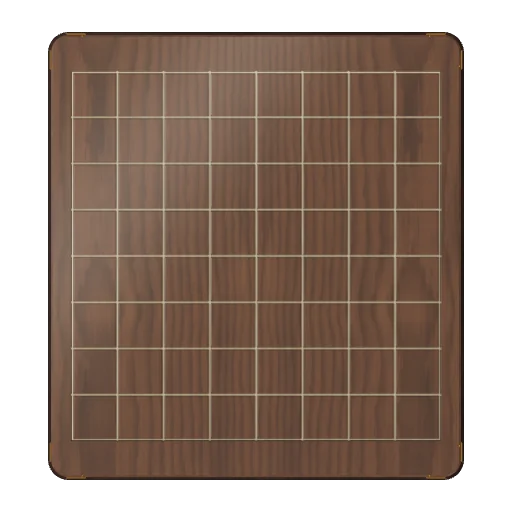
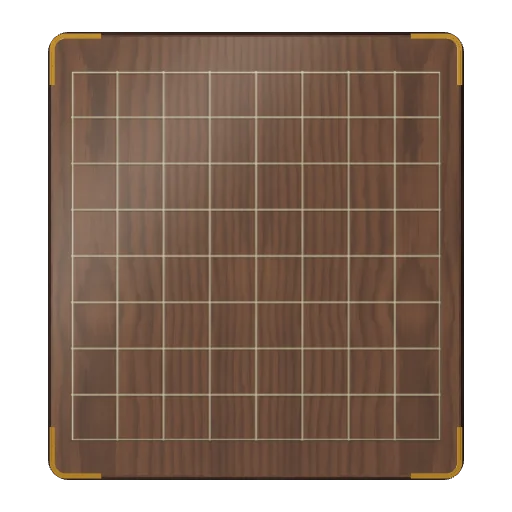
ラトルンクロルム3D：木工の盤のちらつきを修正（上面の金具が消えていたのも直す、金具は影なし、象嵌線の凹みを浅く）、木の駒の墨入れを外す
Claude-Session: https://claude.ai/code/session_01EiWRAVpHBixHi279KdKnET

diff --git a/atlas/lazy.js b/atlas/lazy.js
@@ -5,7 +5,7 @@
      AtlasLazy.has3D(id) / hasPlay(id) / hasRules(id) — known before loading; AtlasLazy.loaded(id) */
 (function () {
 'use strict';
-const G = {"reversi": ["models/reversi.js?v=1", "games/reversi.js?v=57", "rules/reversi.js?v=14"], "shogi": ["models/shogi.js?v=102", "games/shogi-play.js?v=51", "games/shogi.js?v=18", "rules/shogi.js?v=21"], "chess": ["models/chess.js?v=23", "games/chess.js?v=23", "rules/chess.js?v=8"], "backgammon": ["models/backgammon.js?v=123", "games/backgammon.js?v=29", "rules/backgammon.js?v=11"], "gomoku": ["models/goban.js?v=17", "games/gomoku.js?v=19", "rules/gomoku.js?v=10"], "go": ["models/goban.js?v=17", "games/go.js?v=18", "rules/go.js?v=7"], "hex": ["models/goban.js?v=17", "models/hex.js?v=3", "games/hex.js?v=9", "rules/hex.js?v=7"], "tafl": ["games/tafl.js?v=20", "rules/tafl.js?v=8"], "xiangqi": ["models/xiangqi.js?v=8", "games/xiangqi.js?v=18", "rules/xiangqi.js?v=7"], "janggi": ["models/xiangqi.js?v=8", "models/janggi.js?v=3", "games/janggi.js?v=10", "rules/janggi.js?v=3"], "checkers": ["models/checkers.js?v=23", "games/checkers.js?v=17", "rules/checkers.js?v=11"], "ugolki": ["models/checkers.js?v=23", "models/ugolki.js?v=4", "games/ugolki.js?v=17", "rules/ugolki.js?v=11"], "morris": ["models/morris.js?v=9", "games/morris-pieces.js?v=5", "games/morris.js?v=16", "rules/morris.js?v=8"], "connect4": ["models/connect4.js?v=6", "games/connect4-tiles.js?v=3", "games/connect4.js?v=10", "rules/connect4.js?v=3"], "mancala": ["models/mancala.js?v=6", "games/mancala.js?v=16", "rules/mancala.js?v=5"], "dots": ["models/dots.js?v=5", "games/dots.js?v=15", "rules/dots.js?v=3"], "ur": ["models/ur-dice.js?v=2", "models/ur.js?v=5", "games/ur-kit.js?v=15", "games/ur.js?v=15", "rules/ur.js?v=18"], "fanorona": ["models/fanorona.js?v=4", "games/fanorona.js?v=9", "rules/fanorona.js?v=8"], "konane": ["models/konane.js?v=7", "games/konane.js?v=18", "rules/konane.js?v=7"], "latrunculi": ["models/latrunculi.js?v=5", "games/latrunculi.js?v=9", "rules/latrunculi.js?v=3"], "foxgeese": ["models/foxgeese.js?v=7", "games/foxgeese.js?v=17", "rules/foxgeese.js?v=13"], "amazons": ["models/amazons.js?v=7", "games/amazons.js?v=17", "rules/amazons.js?v=9"], "senet": ["models/ur-dice.js?v=2", "models/senet.js?v=10", "games/senet-kit.js?v=5", "games/senet.js?v=20", "rules/senet.js?v=10"], "agon": ["models/agon.js?v=4", "games/agon.js?v=16", "rules/agon.js?v=6"], "alquerque": ["models/alquerque.js?v=3", "games/fanorona.js?v=9", "rules/alquerque.js?v=6"], "ludo": ["../ludo/engine.js?v=4", "../ludo/house.js?v=7", "../ludo/board2d.js?v=7", "../ludo/board-art.js?v=3", "models/ludo.js?v=10", "games/ludo.js?v=30", "rules/ludo.js?v=4"], "carrom": ["../carrom/engine.js?v=8", "models/carrom.js?v=18", "games/carrom.js?v=46", "rules/carrom.js?v=9", "../shared/onlinesec.js?v=2l14as1sh1", "online3d.js?v=2"], "crokinole": ["../carrom/engine.js?v=8", "games/carrom.js?v=46", "../crokinole/engine.js?v=7", "models/crokinole.js?v=13", "games/crokinole.js?v=24", "rules/crokinole.js?v=5", "../shared/onlinesec.js?v=2l14as1sh1", "online3d.js?v=2"], "hockey": ["../hockey/engine.js?v=19", "models/hockey.js?v=8", "games/hockey.js?v=41", "rules/hockey.js?v=8"], "botao": ["../carrom/engine.js?v=8", "games/carrom.js?v=46", "../botao/engine.js?v=16", "models/botao.js?v=11", "games/botao-i18n.js?v=16", "games/botao.js?v=36", "rules/botao.js?v=10", "../shared/onlinesec.js?v=2l14as1sh1", "online3d.js?v=2"], "shanghai": ["games/shanghai-core.js?v=2", "games/shanghai-scenes.js?v=2", "games/shanghai-zodiac.js?v=6", "games/shanghai-i18n.js?v=17", "models/shanghai.js?v=19", "games/shanghai.js?v=44", "rules/shanghai-i18n.js?v=1", "rules/shanghai.js?v=1"], "patolli": ["models/patolli.js?v=1", "games/patolli-kit.js?v=2", "games/patolli.js?v=4", "rules/patolli.js?v=3"], "peg": ["../peg/engine.js?v=2", "../peg/i18n.js?v=11", "models/peg.js?v=23", "games/peg.js?v=16", "rules/peg.js?v=4"], "hitblow": ["../hitblow/engine.js?v=6", "models/hitblow.js?v=27", "games/hitblow.js?v=19", "rules/hitblow.js?v=4"]};
+const G = {"reversi": ["models/reversi.js?v=1", "games/reversi.js?v=57", "rules/reversi.js?v=14"], "shogi": ["models/shogi.js?v=102", "games/shogi-play.js?v=51", "games/shogi.js?v=18", "rules/shogi.js?v=21"], "chess": ["models/chess.js?v=23", "games/chess.js?v=23", "rules/chess.js?v=8"], "backgammon": ["models/backgammon.js?v=123", "games/backgammon.js?v=29", "rules/backgammon.js?v=11"], "gomoku": ["models/goban.js?v=17", "games/gomoku.js?v=19", "rules/gomoku.js?v=10"], "go": ["models/goban.js?v=17", "games/go.js?v=18", "rules/go.js?v=7"], "hex": ["models/goban.js?v=17", "models/hex.js?v=3", "games/hex.js?v=9", "rules/hex.js?v=7"], "tafl": ["games/tafl.js?v=20", "rules/tafl.js?v=8"], "xiangqi": ["models/xiangqi.js?v=8", "games/xiangqi.js?v=18", "rules/xiangqi.js?v=7"], "janggi": ["models/xiangqi.js?v=8", "models/janggi.js?v=3", "games/janggi.js?v=10", "rules/janggi.js?v=3"], "checkers": ["models/checkers.js?v=23", "games/checkers.js?v=17", "rules/checkers.js?v=11"], "ugolki": ["models/checkers.js?v=23", "models/ugolki.js?v=4", "games/ugolki.js?v=17", "rules/ugolki.js?v=11"], "morris": ["models/morris.js?v=9", "games/morris-pieces.js?v=5", "games/morris.js?v=16", "rules/morris.js?v=8"], "connect4": ["models/connect4.js?v=6", "games/connect4-tiles.js?v=3", "games/connect4.js?v=10", "rules/connect4.js?v=3"], "mancala": ["models/mancala.js?v=6", "games/mancala.js?v=16", "rules/mancala.js?v=5"], "dots": ["models/dots.js?v=5", "games/dots.js?v=15", "rules/dots.js?v=3"], "ur": ["models/ur-dice.js?v=2", "models/ur.js?v=5", "games/ur-kit.js?v=15", "games/ur.js?v=15", "rules/ur.js?v=18"], "fanorona": ["models/fanorona.js?v=4", "games/fanorona.js?v=9", "rules/fanorona.js?v=8"], "konane": ["models/konane.js?v=7", "games/konane.js?v=18", "rules/konane.js?v=7"], "latrunculi": ["models/latrunculi.js?v=6", "games/latrunculi.js?v=9", "rules/latrunculi.js?v=3"], "foxgeese": ["models/foxgeese.js?v=7", "games/foxgeese.js?v=17", "rules/foxgeese.js?v=13"], "amazons": ["models/amazons.js?v=7", "games/amazons.js?v=17", "rules/amazons.js?v=9"], "senet": ["models/ur-dice.js?v=2", "models/senet.js?v=10", "games/senet-kit.js?v=5", "games/senet.js?v=20", "rules/senet.js?v=10"], "agon": ["models/agon.js?v=4", "games/agon.js?v=16", "rules/agon.js?v=6"], "alquerque": ["models/alquerque.js?v=3", "games/fanorona.js?v=9", "rules/alquerque.js?v=6"], "ludo": ["../ludo/engine.js?v=4", "../ludo/house.js?v=7", "../ludo/board2d.js?v=7", "../ludo/board-art.js?v=3", "models/ludo.js?v=10", "games/ludo.js?v=30", "rules/ludo.js?v=4"], "carrom": ["../carrom/engine.js?v=8", "models/carrom.js?v=18", "games/carrom.js?v=46", "rules/carrom.js?v=9", "../shared/onlinesec.js?v=2l14as1sh1", "online3d.js?v=2"], "crokinole": ["../carrom/engine.js?v=8", "games/carrom.js?v=46", "../crokinole/engine.js?v=7", "models/crokinole.js?v=13", "games/crokinole.js?v=24", "rules/crokinole.js?v=5", "../shared/onlinesec.js?v=2l14as1sh1", "online3d.js?v=2"], "hockey": ["../hockey/engine.js?v=19", "models/hockey.js?v=8", "games/hockey.js?v=41", "rules/hockey.js?v=8"], "botao": ["../carrom/engine.js?v=8", "games/carrom.js?v=46", "../botao/engine.js?v=16", "models/botao.js?v=11", "games/botao-i18n.js?v=16", "games/botao.js?v=36", "rules/botao.js?v=10", "../shared/onlinesec.js?v=2l14as1sh1", "online3d.js?v=2"], "shanghai": ["games/shanghai-core.js?v=2", "games/shanghai-scenes.js?v=2", "games/shanghai-zodiac.js?v=6", "games/shanghai-i18n.js?v=17", "models/shanghai.js?v=19", "games/shanghai.js?v=44", "rules/shanghai-i18n.js?v=1", "rules/shanghai.js?v=1"], "patolli": ["models/patolli.js?v=1", "games/patolli-kit.js?v=2", "games/patolli.js?v=4", "rules/patolli.js?v=3"], "peg": ["../peg/engine.js?v=2", "../peg/i18n.js?v=11", "models/peg.js?v=23", "games/peg.js?v=16", "rules/peg.js?v=4"], "hitblow": ["../hitblow/engine.js?v=6", "models/hitblow.js?v=27", "games/hitblow.js?v=19", "rules/hitblow.js?v=4"]};
 const F = {"patolli": {"t3": true, "play": true, "rules": true}, "reversi": {"t3": true, "play": true, "rules": true}, "shogi": {"t3": true, "play": true, "rules": true}, "chess": {"t3": true, "play": true, "rules": true}, "backgammon": {"t3": true, "play": true, "rules": true}, "gomoku": {"t3": true, "play": true, "rules": true}, "go": {"t3": true, "play": true, "rules": true}, "hex": {"t3": true, "play": true, "rules": true}, "tafl": {"t3": true, "play": true, "rules": true}, "xiangqi": {"t3": true, "play": true, "rules": true}, "janggi": {"t3": true, "play": true, "rules": true}, "checkers": {"t3": true, "play": true, "rules": true}, "ugolki": {"t3": true, "play": true, "rules": true}, "morris": {"t3": true, "play": true, "rules": true}, "connect4": {"t3": true, "play": true, "rules": true}, "mancala": {"t3": true, "play": true, "rules": true}, "dots": {"t3": true, "play": true, "rules": true}, "ur": {"t3": true, "play": true, "rules": true}, "fanorona": {"t3": true, "play": true, "rules": true}, "konane": {"t3": true, "play": true, "rules": true}, "latrunculi": {"t3": true, "play": true, "rules": true}, "foxgeese": {"t3": true, "play": true, "rules": true}, "amazons": {"t3": true, "play": true, "rules": true}, "senet": {"t3": true, "play": true, "rules": true}, "agon": {"t3": true, "play": true, "rules": true}, "alquerque": {"t3": true, "play": true, "rules": true}, "ludo": {"t3": true, "play": true, "rules": true}, "carrom": {"t3": true, "play": true, "rules": true}, "crokinole": {"t3": true, "play": true, "rules": true}, "hockey": {"t3": true, "play": true, "rules": true}, "botao": {"t3": true, "play": true, "rules": true}, "peg": {"t3": true, "play": true, "rules": true}, "shanghai": {"t3": true, "play": true, "rules": true}, "hitblow": {"t3": true, "play": true, "rules": true}};
 const done = new Set(), loading = new Map(), ok = new Set();
 function load(src) {

diff --git a/atlas/models/latrunculi.js b/atlas/models/latrunculi.js
@@ -67,7 +67,7 @@
   //             roughness, clearcoat, relief, slab corner, slab thickness, plinth height]
   const LK = {
     stone: ['#8a7a62', '#d8cdb8', 3.4, .92, 0, 1.25, .12, .5, 0],
-    wood: ['#4a2c18', '#8a5a34', 0, .48, .4, .45, .34, .38, .08],
+    wood: ['#4a2c18', '#8a5a34', 0, .5, .25, .45, .34, .38, .08],
     abstract: ['#3a3d42', '#ece4d6', 3.0, .82, 0, .2, .05, .2, .16],
     lux: ['#1c0c08', '#2a3f8f', 3.6, .24, .7, .22, .2, .36, .07],
     giallo: ['#5a1e18', '#dcae64', 3.4, .3, .55, .3, .14, .36, .11],
@@ -174,8 +174,8 @@
       const src = h2.getImageData(0, 0, nW, nH).data, hh = new Float32Array(nW * nH);
       for (let i = 0; i < nW * nH; i++) hh[i] = (src[i * 4] * .3 + src[i * 4 + 1] * .59 + src[i * 4 + 2] * .11) / 255;
       if (look === 'wood' && bd) {   // wood: the grain only faintly; the inlaid lines sit a little below the surface
-        const lc = document.createElement('canvas'); lc.width = nW; lc.height = nH; const l2 = lc.getContext('2d'); l2.drawImage(bd, BX * ns, BZ * ns, N * ns, N * ns);
-        const la = l2.getImageData(0, 0, nW, nH).data; for (let i = 0; i < nW * nH; i++) hh[i] = hh[i] * .25 - la[i * 4 + 3] / 255 * .9;
+        const lc = document.createElement('canvas'); lc.width = nW; lc.height = nH; const l2 = lc.getContext('2d'); l2.filter = 'blur(1.2px)'; l2.drawImage(bd, BX * ns, BZ * ns, N * ns, N * ns); l2.filter = 'none';
+        const la = l2.getImageData(0, 0, nW, nH).data; for (let i = 0; i < nW * nH; i++) hh[i] = hh[i] * .2 - la[i * 4 + 3] / 255 * .45;
       }
       if (look === 'stone') for (let y = 0; y < nH; y++) for (let x = 0; x < nW; x++) {   // pitting and a worn, uneven face
         const u = x / ns, v = y / ns, p = fbm(u * 14, v * 14); hh[y * nW + x] += (fbm(u * 1.6, v * 1.6) - .5) * .5 + (p < .3 ? (p - .3) * 2.2 : 0);
@@ -321,7 +321,7 @@
         const capG = G('wdCapL', () => { const sh2 = new TT.Shape(), ri = r0 - bw, A = armL + r0;
           sh2.moveTo(-A, r0); sh2.lineTo(0, r0); sh2.absarc(0, 0, r0, Math.PI / 2, 0, true); sh2.lineTo(r0, -A); sh2.lineTo(ri, -A); sh2.lineTo(ri, 0); sh2.absarc(0, 0, ri, 0, Math.PI / 2, false); sh2.lineTo(-A, ri); sh2.closePath();
           const e = new TT.ExtrudeGeometry(sh2, { depth: .006, bevelEnabled: true, bevelThickness: .006, bevelSize: .006, bevelSegments: 2, curveSegments: 8 }); e.rotateX(Math.PI / 2); e.translate(0, .012, 0); e.computeVertexNormals(); return e; });
-        const cap = mesh(capG, brass, cx, y0 + TH + .003, cz);   // (lifted off the top: its underside flickered against it) cap.scale.set(sx, 1, sz); g.add(cap);
+        const cap = mesh(capG, brass, cx, y0 + TH + .003, cz); cap.scale.set(sx, 1, sz); g.add(cap);   // (lifted off the top: its underside flickered against it)
         const thk = G('wdArmT', () => new TT.BoxGeometry(1, .012, 1));
         const thS = Math.PI / 2 + Math.atan2(-sz, sx) - Math.PI / 4;   // (the cylinder's θ for this quadrant)
         const th0 = sx > 0 ? (sz > 0 ? 0 : Math.PI / 2) : (sz < 0 ? Math.PI : Math.PI * 1.5);
@@ -329,10 +329,12 @@
         g.add(mesh(G('wdW' + th0.toFixed(2), () => new TT.CylinderGeometry(r0 + .006, r0 + .006, sh, 10, 1, true, th0, Math.PI / 2)), brass, cx, y0 + TH - sh / 2, cz));
         const s1 = mesh(thk, brass, cx - sx * armL / 2, y0 + TH - sh / 2, sz * (H / 2 + .004)); s1.scale.set(armL, sh / .012, .006); g.add(s1);
         const s2 = mesh(thk, brass, sx * (W / 2 + .004), y0 + TH - sh / 2, cz - sz * armL / 2); s2.scale.set(.006, sh / .012, armL); g.add(s2);
+        g.children.forEach(o => { if (o.material === brass || o.material === brassD) { o.castShadow = false; o.receiveShadow = false; } });
         const sc = G('wdScrew', () => new TT.SphereGeometry(.02, 10, 4, 0, Math.PI * 2, 0, Math.PI / 2));
         g.add(mesh(sc, brassD, cx - sx * (armL - .06), y0 + TH + .007, sz * (H / 2 - bw / 2)));
         g.add(mesh(sc, brassD, sx * (W / 2 - bw / 2), y0 + TH + .007, cz - sz * (armL - .06)));
       }
+      g.children.forEach(o => { if (o.material === brass || o.material === brassD) { o.castShadow = false; o.receiveShadow = false; } });   // (thin metal: shadow acne shimmered on it)
       return;
     }
     if (look === 'abstract') {   // the slate slab floats on a dark base; the white field is a panel laid on it
@@ -490,15 +492,12 @@
     const crest = mesh(crestG, M('crest' + col, { map: strands, color: white ? '#e6dcc8' : '#ffffff', roughness: .8 }), 0, 0, -.01); crest.scale.set(1, .82, 1.0); hd.add(crest);
     g.userData.h = .56; g.userData.lie = .31;
   }
-  // wood: a turned pawn with burnt rings
+  // wood: a turned pawn (2026-11-19 user: the burnt rings are not needed)
   function wood(g, col) {
     const TT = T(), dark = col === 1;
     const wm = M('pawn' + col, { map: dark ? woodTex('wn', '#6a4226', '#2c180a') : woodTex('bx', '#e6cfa2', '#b38a58'), color: '#ffffff', roughness: .48, clearcoat: .35, clearcoatRoughness: .45 });
     g.add(mesh(G('pwBody', () => new TT.LatheGeometry([V2(0, 0), V2(.3, 0), V2(.3, .03), V2(.25, .07), V2(.25, .095), V2(.15, .16), V2(.1, .34), V2(.16, .365), V2(.09, .405), V2(0, .42)], LO() ? 14 : 22)), wm));
     g.add(mesh(G('pwHead', () => new TT.SphereGeometry(.125, 16, 10)), wm, 0, .52, 0));
-    const burnt = M('burnt', { color: '#1c0f06', roughness: .9 });
-    g.add(mesh(G('pwRing1', () => { const q = new TT.TorusGeometry(.252, .01, 4, seg(32)); q.rotateX(Math.PI / 2); return q; }), burnt, 0, .08, 0));
-    g.add(mesh(G('pwRing2', () => { const q = new TT.TorusGeometry(.164, .009, 4, seg(28)); q.rotateX(Math.PI / 2); return q; }), burnt, 0, .372, 0));
     g.userData.h = .645; g.userData.lie = .3;
   }
   // abstract: a six-petal flower on a stem (the 2D counters' flower, standing up)

diff --git a/atlas/tables3d.js b/atlas/tables3d.js
@@ -426,8 +426,8 @@
   } };
   X.boardName = (k, lang, id) => { const g = id && NG[id] && NG[id][k]; if (g) return g[lang] || g.en; const o = N3[k]; if (!o) return k; const n = o[lang] || o.en, c = n.replace(/\s*(?:3D|ثلاثي(?: الأبعاد)?)$/, '').trim(); return c || n; };   // (2026-11-10: the boards' names without '3D')
   // the full games' 「3D盤」 tiles: the board alone, from straight above, no room (atlas/tools/boardicon.html, 2026-11-09)
-  X.boardIcon = (id, k) => new URL('img/boardic-' + id + '-' + k + '.webp?v=' + (id === 'foxgeese' ? 5 : id === 'latrunculi' ? 5 : id === 'go' || id === 'gomoku' ? 9 : id === 'hex' ? 3 : id === 'connect4' ? 2 : id === 'mancala' ? 2 : id === 'morris' ? 2 : id === 'backgammon' ? 2 : id === 'checkers' ? 5 : id === 'xiangqi' ? 3 : id === 'chess' ? 7 : 1), ME).href;
-  X.boardThumb = (id, k) => new URL('img/board-' + id + '-' + k + '.webp?v=' + (id === 'foxgeese' ? 5 : id === 'latrunculi' ? 5 : id === 'hitblow' ? 9 : id === 'go' || id === 'gomoku' ? 9 : id === 'hex' ? 3 : id === 'connect4' ? 2 : id === 'mancala' ? 2 : id === 'morris' ? 2 : id === 'senet' ? 3 : id === 'carrom' ? 5 : id === 'crokinole' ? 5 : id === 'konane' ? 2 : id === 'ludo' ? 2 : id === 'hockey' ? 2 : id === 'peg' ? 10 : id === 'backgammon' ? 2 : id === 'checkers' ? 5 : id === 'xiangqi' ? 3 : id === 'botao' ? 6 : id === 'chess' ? 7 : 1), ME).href;
+  X.boardIcon = (id, k) => new URL('img/boardic-' + id + '-' + k + '.webp?v=' + (id === 'foxgeese' ? 5 : id === 'latrunculi' ? 6 : id === 'go' || id === 'gomoku' ? 9 : id === 'hex' ? 3 : id === 'connect4' ? 2 : id === 'mancala' ? 2 : id === 'morris' ? 2 : id === 'backgammon' ? 2 : id === 'checkers' ? 5 : id === 'xiangqi' ? 3 : id === 'chess' ? 7 : 1), ME).href;
+  X.boardThumb = (id, k) => new URL('img/board-' + id + '-' + k + '.webp?v=' + (id === 'foxgeese' ? 5 : id === 'latrunculi' ? 6 : id === 'hitblow' ? 9 : id === 'go' || id === 'gomoku' ? 9 : id === 'hex' ? 3 : id === 'connect4' ? 2 : id === 'mancala' ? 2 : id === 'morris' ? 2 : id === 'senet' ? 3 : id === 'carrom' ? 5 : id === 'crokinole' ? 5 : id === 'konane' ? 2 : id === 'ludo' ? 2 : id === 'hockey' ? 2 : id === 'peg' ? 10 : id === 'backgammon' ? 2 : id === 'checkers' ? 5 : id === 'xiangqi' ? 3 : id === 'botao' ? 6 : id === 'chess' ? 7 : 1), ME).href;
   // choose a board for a game: the shared key is written and the showcase board (if it is that game's) is rebuilt at once
   X.setBoard = (id, k) => { const B = BOARDS[id]; if (!B || !B.list.includes(k)) return; B.set(k); try { dispatchEvent(new CustomEvent('atlas-board', { detail: { id, look: k } })); } catch (e) {} };
   // 駒: the games whose 3D figures come in sets (the board view's panel shows them as a row under 盤; the full game's 「3D駒」 too)
@@ -525,7 +525,7 @@
     } };
   // ludus latrunculorum (atlas/models/latrunculi.js SETS, remade 2026-11-19): 'atlas-latrunculi-pc3' — 石の兜 (the default) · 木 · 花 · 硬貨 · 大理石の柱 (key 'glass': the 2D set's glass counters became carved columns in 3D) · 骨
   PIECES.latrunculi = { list: ['helm', 'wood', 'abstract', 'coin', 'glass', 'bone'], get: () => { let v = ls.get('atlas-latrunculi-pc3'); v = { gem: 'glass', stone: 'helm', bronze: 'coin', terra: 'wood' }[v] || v; return PIECES.latrunculi.list.includes(v) ? v : 'helm'; }, set: k => ls.set('atlas-latrunculi-pc3', k),
-    thumb: k => new URL('img/pc3-latrunculi-' + k + '.webp?v=4', ME).href,
+    thumb: k => new URL('img/pc3-latrunculi-' + k + '.webp?v=5', ME).href,
     names: {
       helm: { ja: '石の兜', en: 'Stone helmets', zh: '石盔', 'zh-TW': '石盔', ko: '돌 투구', es: 'Yelmos de piedra', fr: 'Casques de pierre', pt: 'Elmos de pedra', de: 'Steinhelme', ru: 'Каменные шлемы', tr: 'Taş miğferler', id: 'Helm batu', hi: 'पत्थर के शिरस्त्राण', ar: 'خوذ حجرية' },
       wood: { ja: '焼き絵の木駒', en: 'Pyrography wood', zh: '烙画木棋', 'zh-TW': '烙畫木棋', ko: '낙화 나무말', es: 'Madera pirograbada', fr: 'Bois pyrogravé', pt: 'Madeira pirogravada', de: 'Brandmalerei', ru: 'Выжигание по дереву', tr: 'Yakma ahşap', id: 'Kayu ukir bakar', hi: 'पायरोग्राफ़ी लकड़ी', ar: 'خشب محفور بالحرق' },

diff --git a/latrunculi/index.html b/latrunculi/index.html
@@ -1374,7 +1374,7 @@ body.hb-on .hb .controls.hb-menu{display:flex!important}
   const f = document.createElement('link'); f.rel = 'stylesheet'; f.href = 'https://fonts.googleapis.com/css2?family=RocknRoll+One&family=Zen+Maru+Gothic:wght@500;700;900&family=Fredoka:wght@600;700&display=swap'; document.head.appendChild(f);
   const load = src => new Promise((res, rej) => { const s = document.createElement('script'); s.src = src; s.onload = res; s.onerror = rej; document.body.appendChild(s); });
   if (window.AtlasLoading) { AtlasLoading.show(); setTimeout(() => AtlasLoading.hide(), 12000); }   // safety net
-  (/[?&]three=128\b/.test(location.search) ? load('https://cdnjs.cloudflare.com/ajax/libs/three.js/r128/three.min.js') : load('../atlas/vendor/three-r186.min.js?v=1').then(() => load('../atlas/vendor/three-compat.js?v=15'))).then(() => load('../atlas/img/tex/baked.js?v=3')).then(() => load('../atlas/table3d.js?v=184')).then(() => load('../atlas/tables3d.js?v=166')).then(() => load('../atlas/skin/common.js?v=114')).then(() => load('../atlas/models/latrunculi.js?v=5')).then(() => load('../atlas/skin/latrunculi.js?v=6'))
+  (/[?&]three=128\b/.test(location.search) ? load('https://cdnjs.cloudflare.com/ajax/libs/three.js/r128/three.min.js') : load('../atlas/vendor/three-r186.min.js?v=1').then(() => load('../atlas/vendor/three-compat.js?v=15'))).then(() => load('../atlas/img/tex/baked.js?v=3')).then(() => load('../atlas/table3d.js?v=184')).then(() => load('../atlas/tables3d.js?v=167')).then(() => load('../atlas/skin/common.js?v=114')).then(() => load('../atlas/models/latrunculi.js?v=6')).then(() => load('../atlas/skin/latrunculi.js?v=6'))
     .catch(() => { document.documentElement.classList.remove('atlas-skin'); if (window.AtlasLoading) AtlasLoading.hide(); });
 })();
 </script>

diff --git a/atlas/index.html b/atlas/index.html
@@ -2330,7 +2330,7 @@ else document.write('<script src="https://cdnjs.cloudflare.com/ajax/libs/three.j
 <script>/* the places other than the chabudai (tables3d.js, 440 KB): at once when one is chosen, else in idle time after the page has
    loaded (2026-11-10); 'atlas-places' tells the page they are there */
 (function () {
-  var SRC = 'tables3d.js?v=166', k = 0, p = null;
+  var SRC = 'tables3d.js?v=167', k = 0, p = null;
   try { k = +(localStorage.getItem('atlas-table') || 0) || 0; var m = /[?&]tbl=(\d+)/.exec(location.search); if (m) k = +m[1]; } catch (e) {}
   window.AtlasPlaces = function () { return p || (p = new Promise(function (res) { var s = document.createElement('script'); s.src = SRC; s.onload = s.onerror = function () { res(); try { dispatchEvent(new Event('atlas-places')); } catch (e) {} }; document.head.appendChild(s); })); };
   if (k) { document.write('<script src="' + SRC + '"><\/script>'); p = Promise.resolve(); }
@@ -2350,7 +2350,7 @@ window.AtlasRgdTimer = function (btn, ms, alive) {
   }, 60);
 };</script>
 <script src="../shared/tapword.js?v=1"></script>
-<script src="lazy.js?v=465"></script>
+<script src="lazy.js?v=466"></script>
 <script src="puzzle-lines.js?v=1"></script>
 <script src="puzzles.js?v=40"></script>
 <script src="lessons3d.js?v=69"></script>
